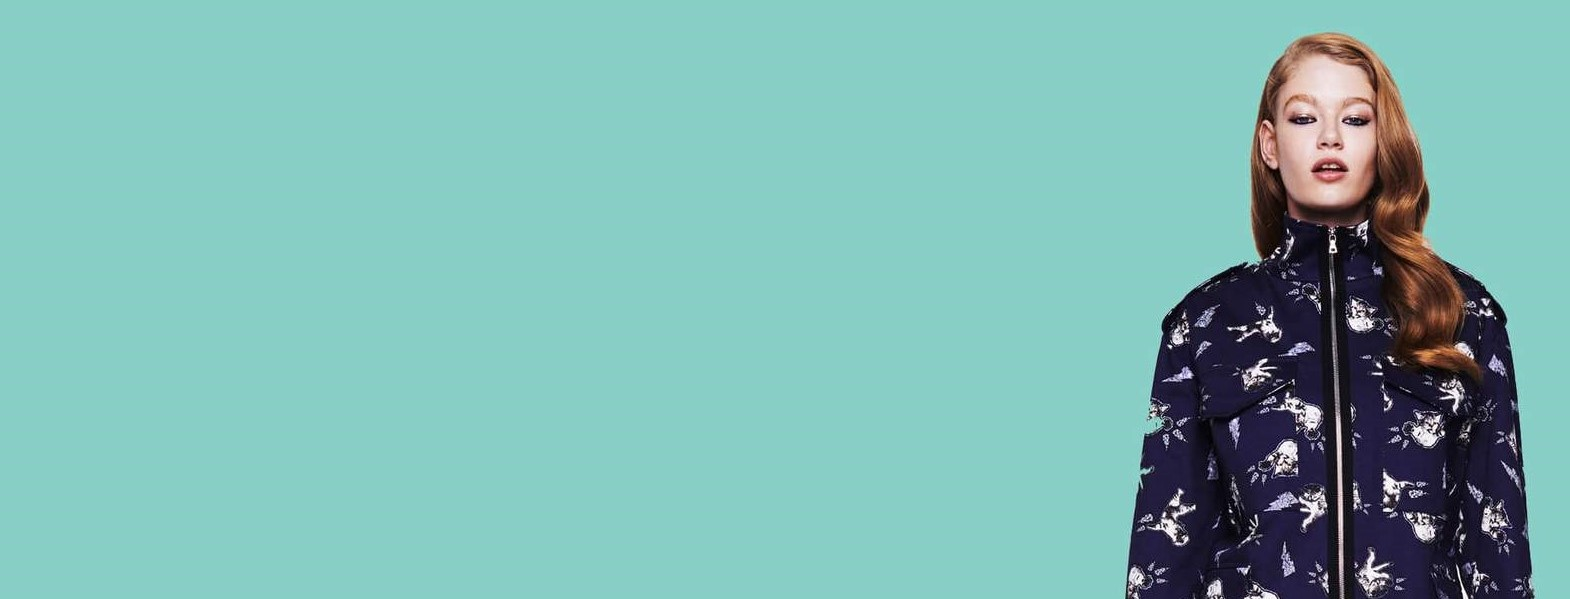
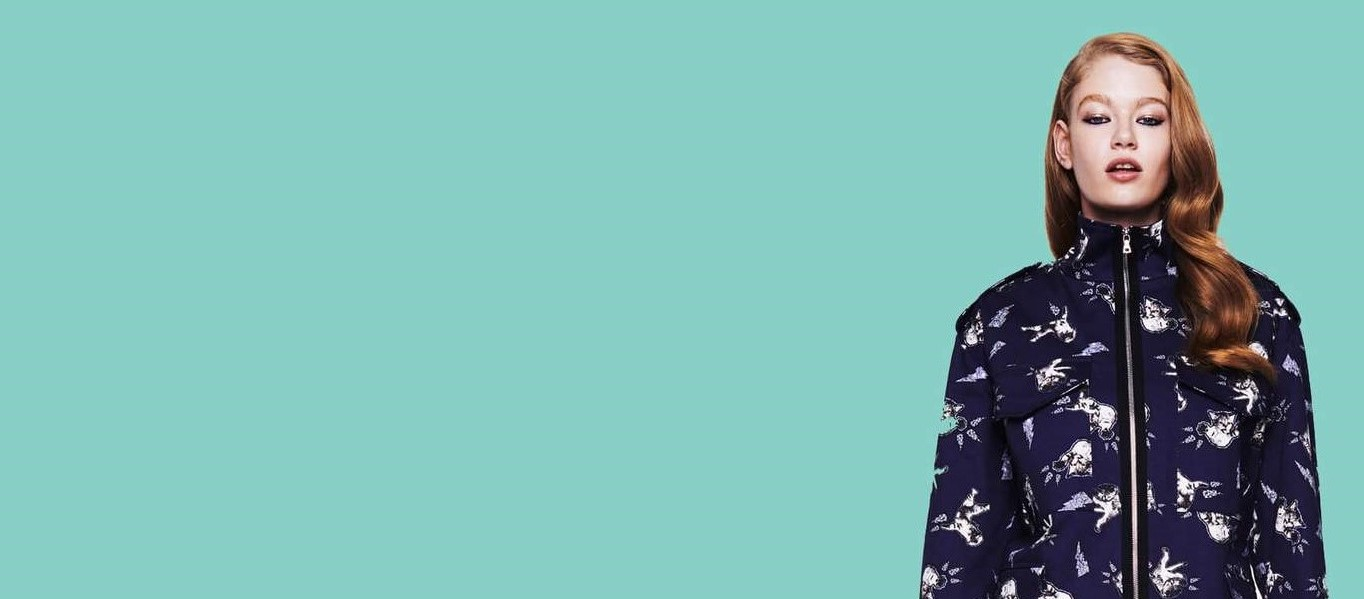
responsive day 3!

Changed region(s): [[0.6466, 0.0301, 0.9853, 1.0]]

diff --git a/src/components/main__page/parallex__pic/parallex__pic.scss b/src/components/main__page/parallex__pic/parallex__pic.scss
@@ -54,8 +54,8 @@
     height: 160px;
   }
   @include mq(600) {
-    // background-image: url('./../assets/banners/parallex-8.jpg');
-    // background-attachment: scroll; // Disable fixed background on smaller screens to avoid issues
+    background-image: url('./../assets/banners/parallex-8.jpg');
+    background-attachment: scroll; // Disable fixed background on smaller screens to avoid issues
     height: 140px;
   }
   @include mq(480) {
@@ -70,6 +70,10 @@
   flex-direction: column;
   justify-content: center;
   align-items: center;
+  @include mq(600) {
+    width: 69%;
+
+  }
 
   .top__text {
     color: #fff;

diff --git a/src/css/parallex__pic.css b/src/css/parallex__pic.css
@@ -99,6 +99,8 @@
 }
 @media only screen and (max-width: 600px) {
   .parallex__background__image {
+    background-image: url("./../assets/banners/parallex-8.jpg");
+    background-attachment: scroll;
     height: 140px;
   }
 }
@@ -124,6 +126,11 @@
   -webkit-box-align: center;
       -ms-flex-align: center;
           align-items: center;
+}
+@media only screen and (max-width: 600px) {
+  .text__in__parallex {
+    width: 69%;
+  }
 }
 .text__in__parallex .top__text {
   color: #fff;
